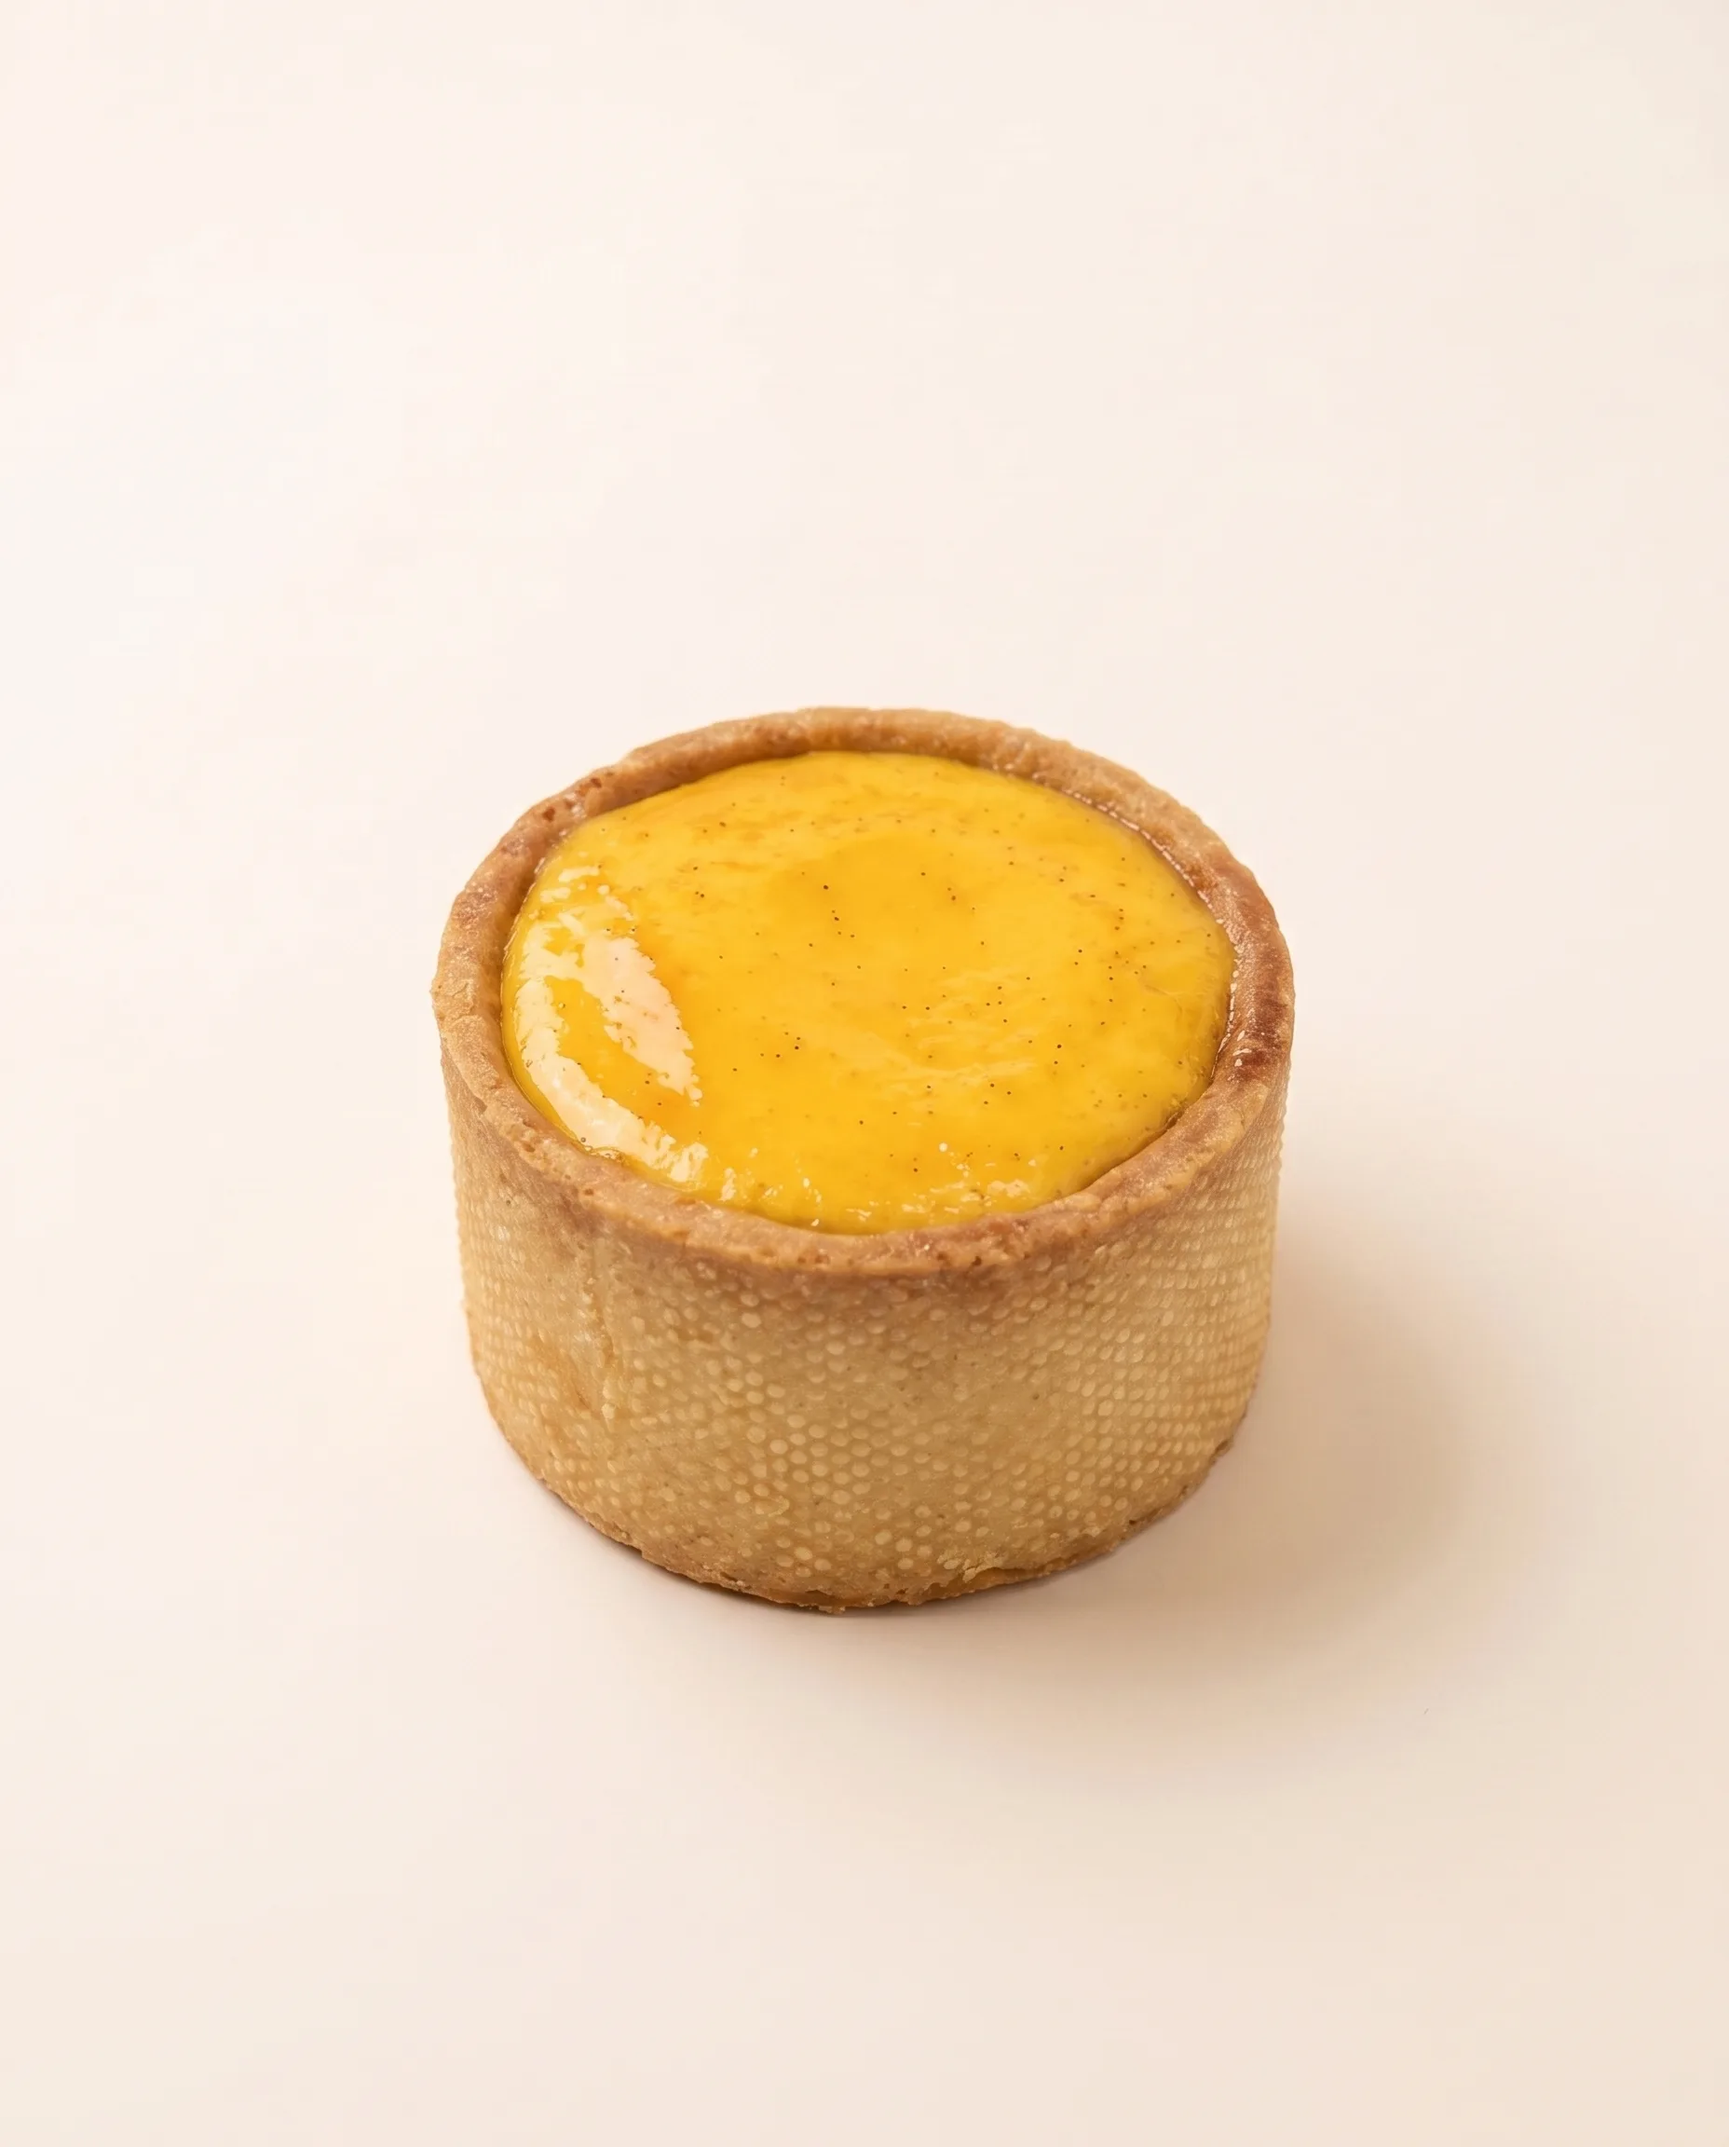
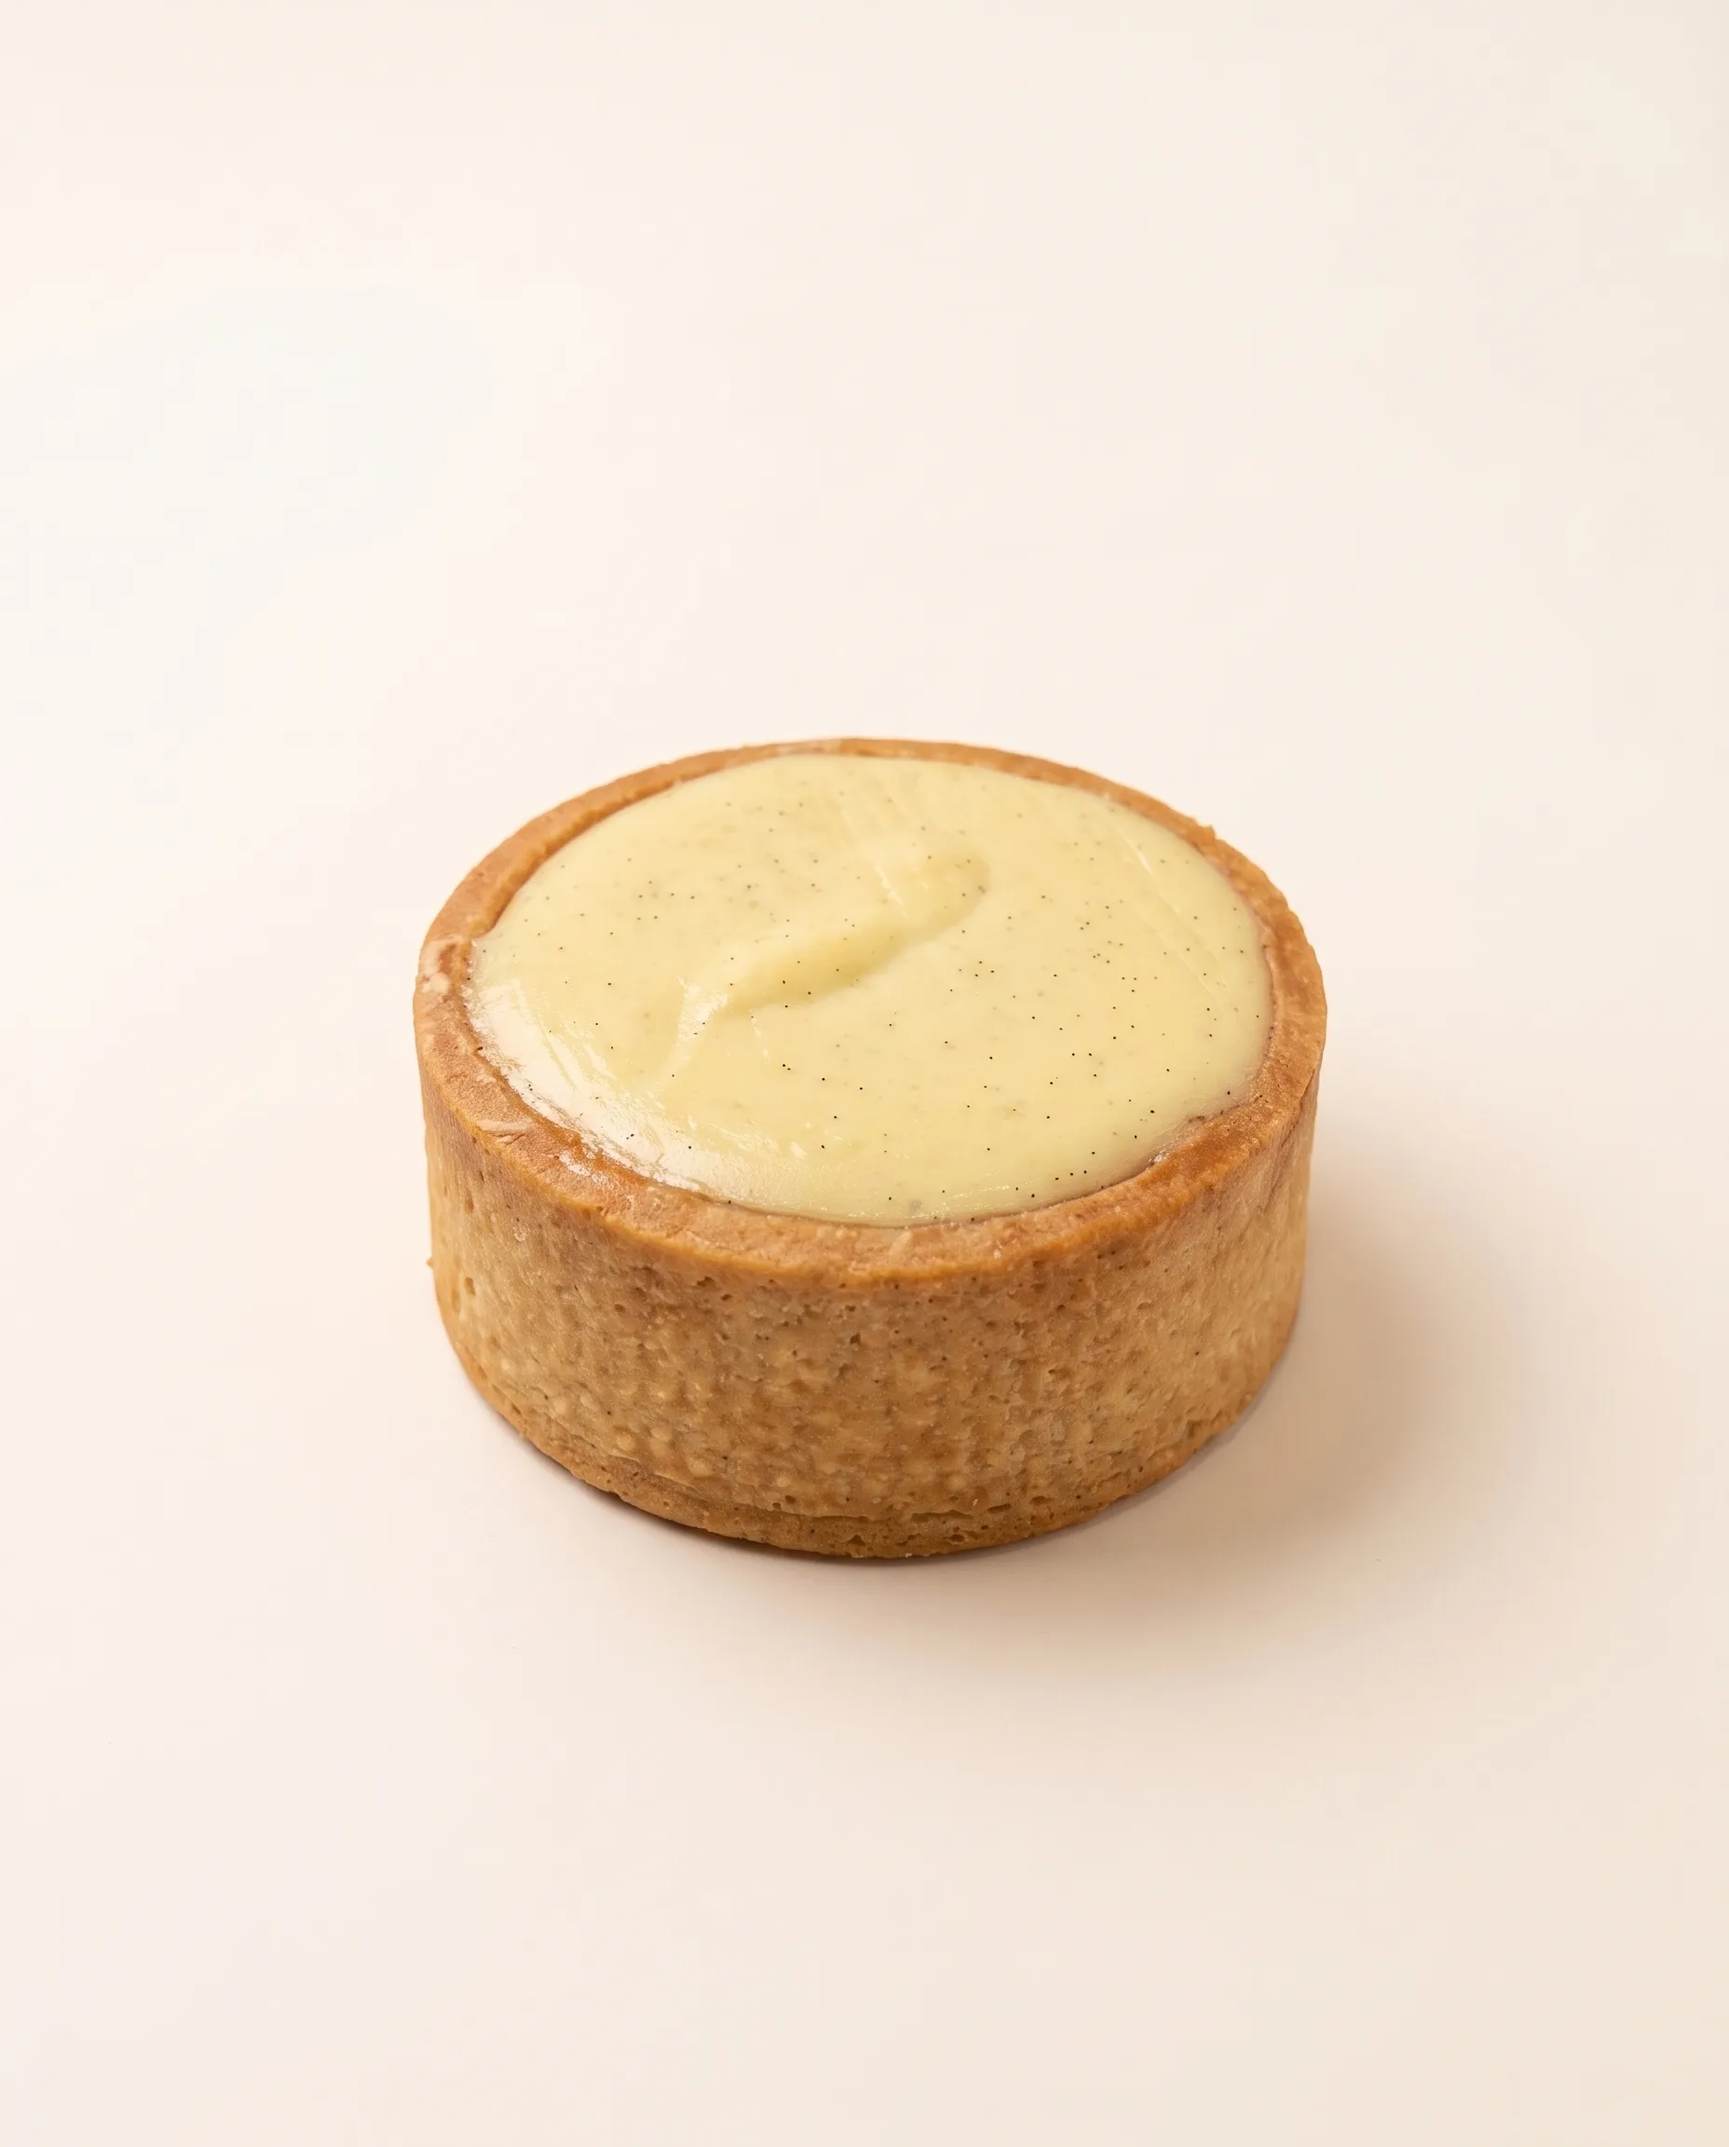
Update flan photos and set Vanilla Pecan Flan to HK$48
New product photos for the Vanilla Pecan and Hazelnut Chocolate flans,
re-exported to WebP (quality 80) so the site keeps loading the optimised
files rather than the 5 MB PNG sources.

All flan is now sold at HK$48, so Vanilla Pecan drops from HK$68.

Changed region(s): [[0.2188, 0.3125, 0.8125, 0.8125]]

diff --git a/product.html b/product.html
@@ -211,7 +211,7 @@
       flavoursEn:['Vanilla Pecan','Hazelnut Chocolate'],
       flavoursTc:['雲呢拿碧根果','朱古力榛子'],
       pack:[
-        {en:'Vanilla Pecan Flan',tc:'雲呢拿碧根果吉士撻',price:'HK$68',img:'images/products/flan/vanilla-pecan-flan.webp'},
+        {en:'Vanilla Pecan Flan',tc:'雲呢拿碧根果吉士撻',price:'HK$48',img:'images/products/flan/vanilla-pecan-flan.webp'},
         {en:'Hazelnut Chocolate Flan',tc:'朱古力榛子吉士撻',price:'HK$48',img:'images/products/flan/chocolate-hazelnut-flan.webp'}
       ]
     }
